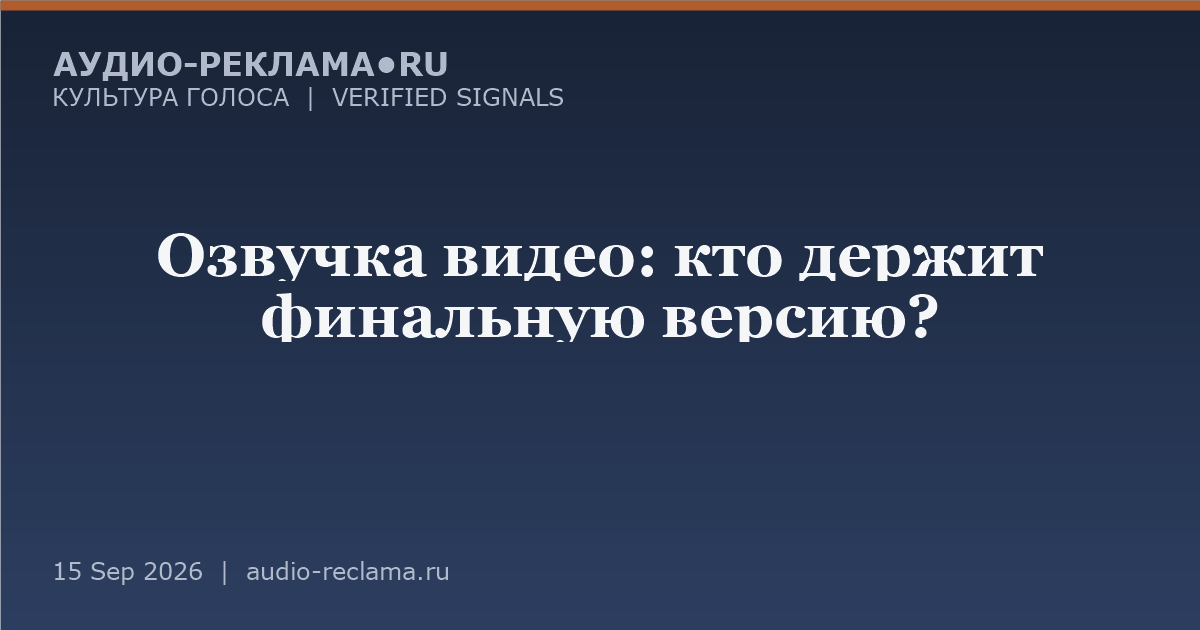
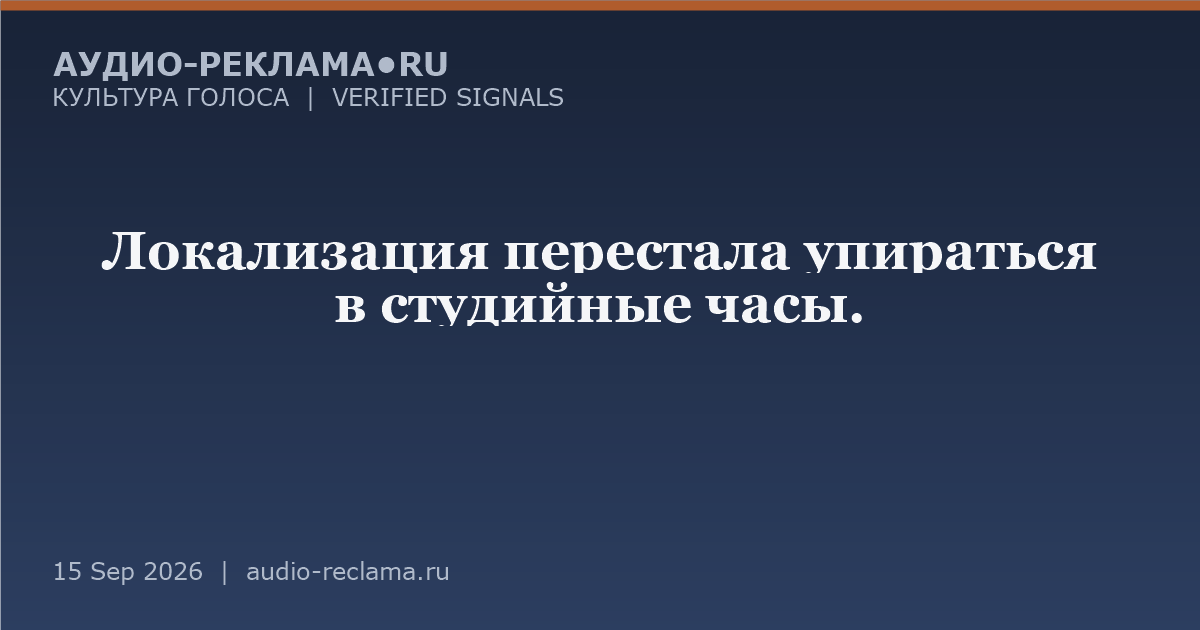
feed: rework 'ozvuchka-video' to flagship - deficit moves from studio hours to context/meaning management after scaling

Changed region(s): [[0.0925, 0.3619, 0.925, 0.5429]]

diff --git a/feed/README.md b/feed/README.md
@@ -26,7 +26,7 @@ Evidence-слой (проверяемость):
 - 12.09 kto-proveril-golos — проверка голоса до эфира (corpus/kto-vypuskaet-golos.md)
 - 13.09 golos-banka — IVR-меню: что проверить перед эфиром (guides/bank-voice-menu.md)
 - 14.09 vybor-diktora — перестаём выбирать диктора, выбираем голосовой актив (guides/choosing-a-voice.md)
-- 15.09 ozvuchka-video — финальная версия ролика (guides/video-voiceover.md)
+- 15.09 ozvuchka-video — дефицит сдвинулся с голоса на контекст и управление смыслом (guides/video-voiceover.md)
 - 16.09 umg-infrastruktura — UMG×ElevenLabs: права голоса в инфраструктуру рынка (E-2026-016) [флагман, вытеснил obyavleniya-aeroporta]
 
 Каждый конверсионный пост закрывается конкретным бесплатным действием (проверка/тест-фрагмент/хронометраж) на start@audio-reclama.ru + 8-800-700-46-52.
